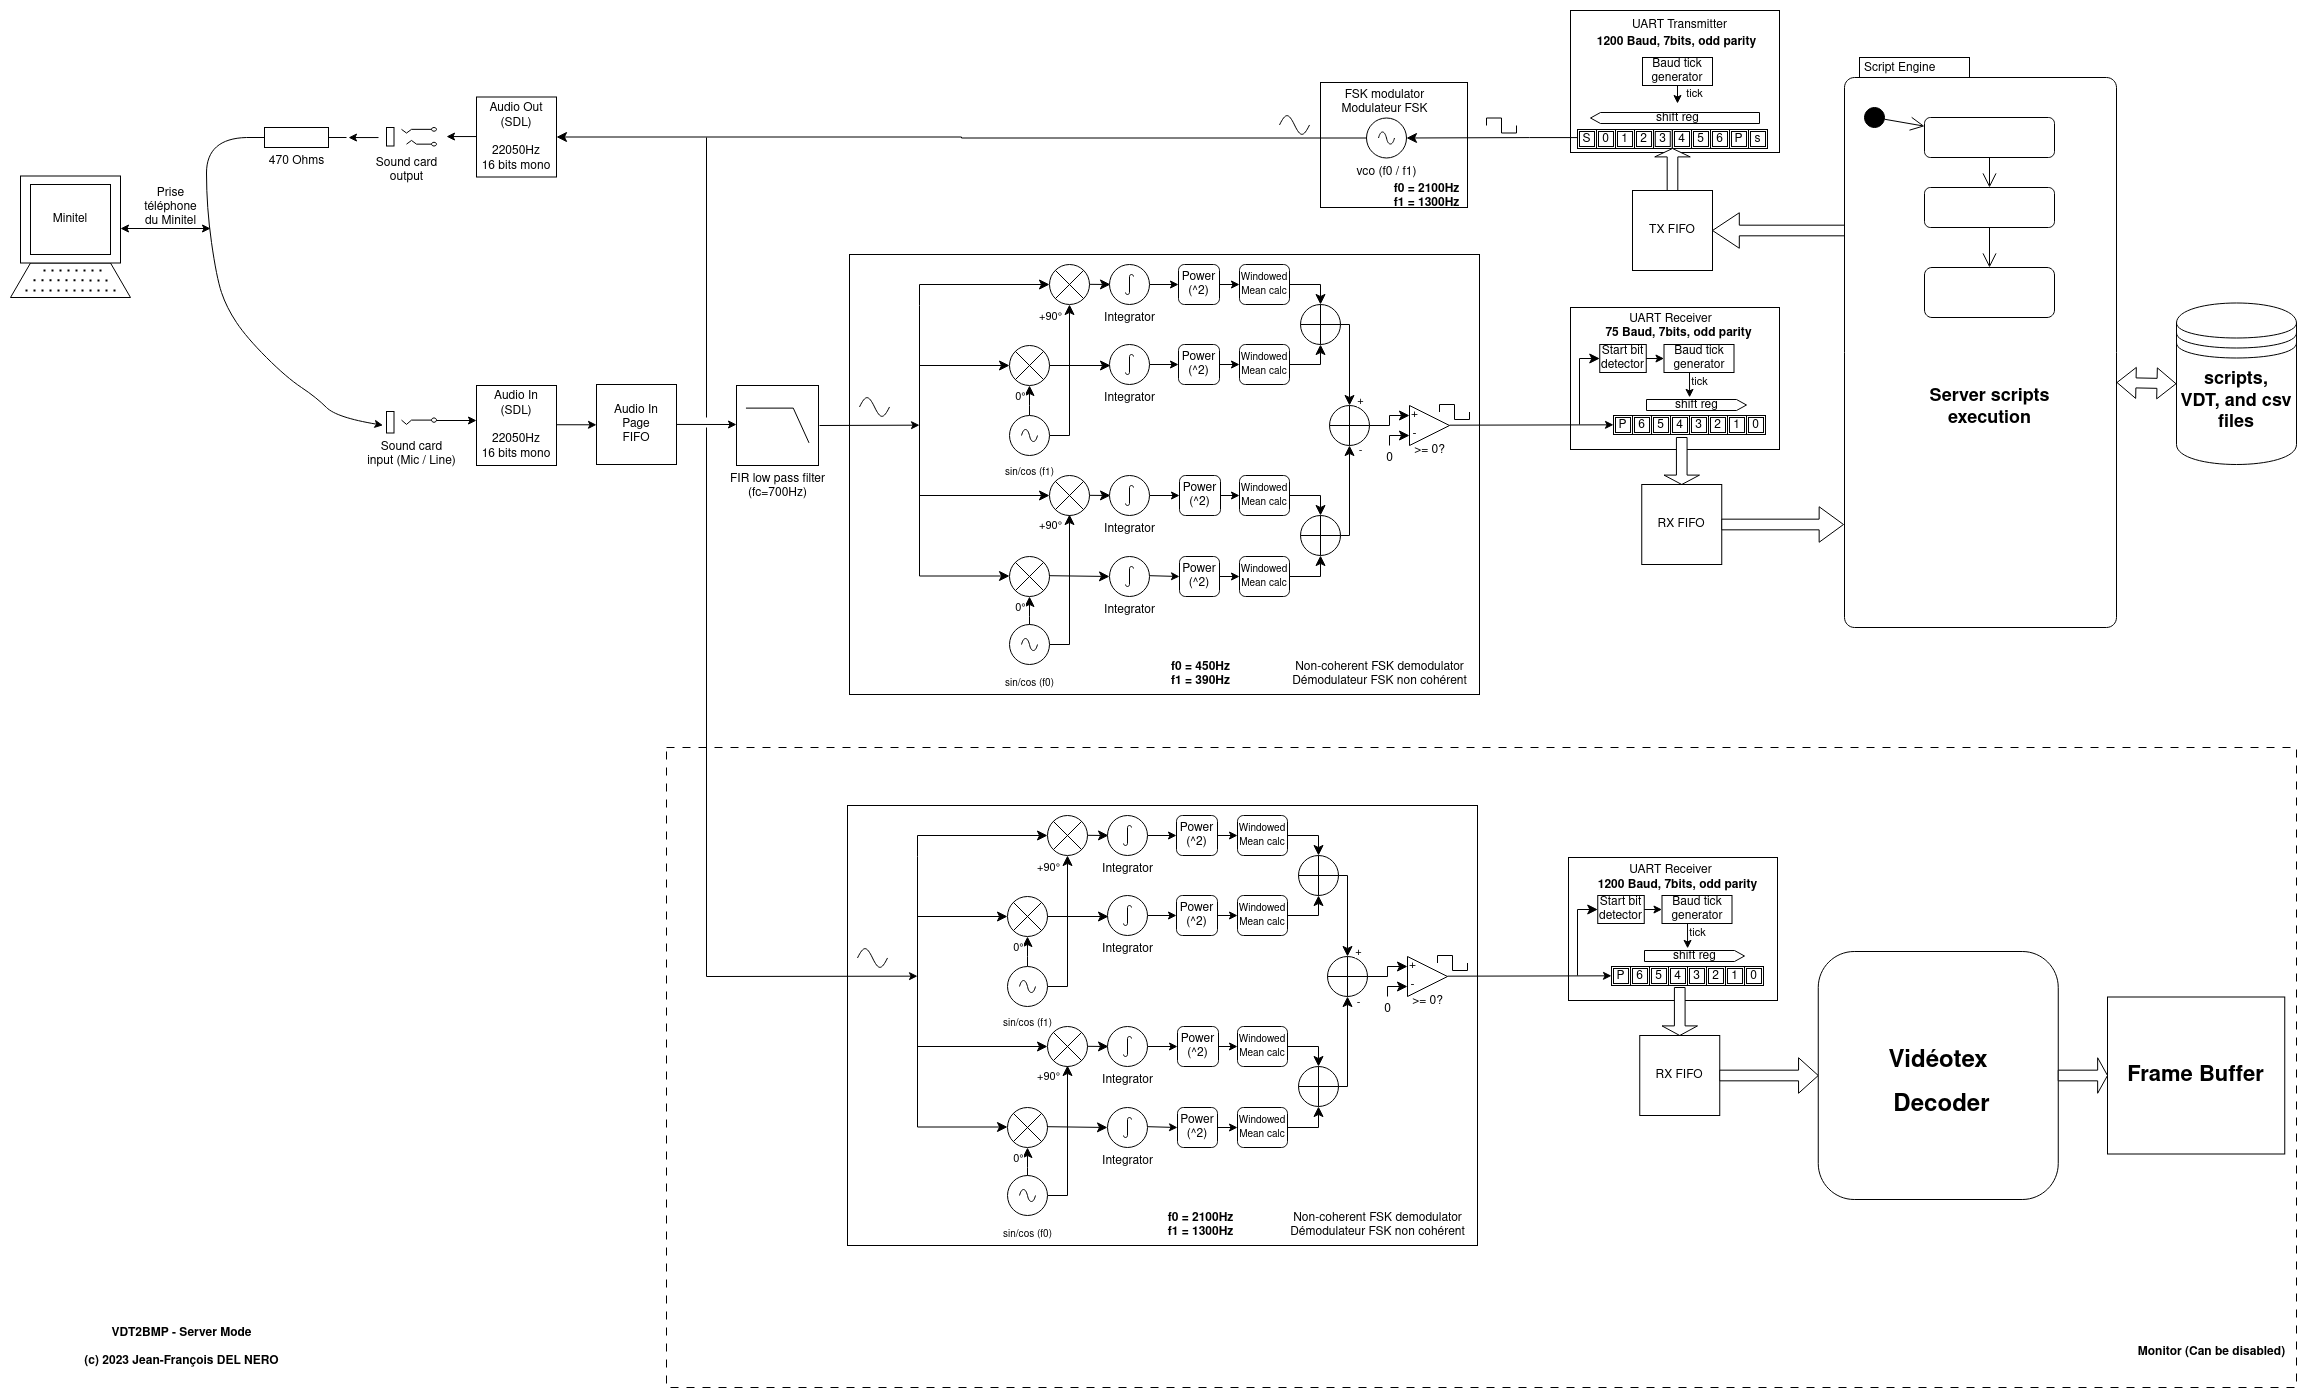
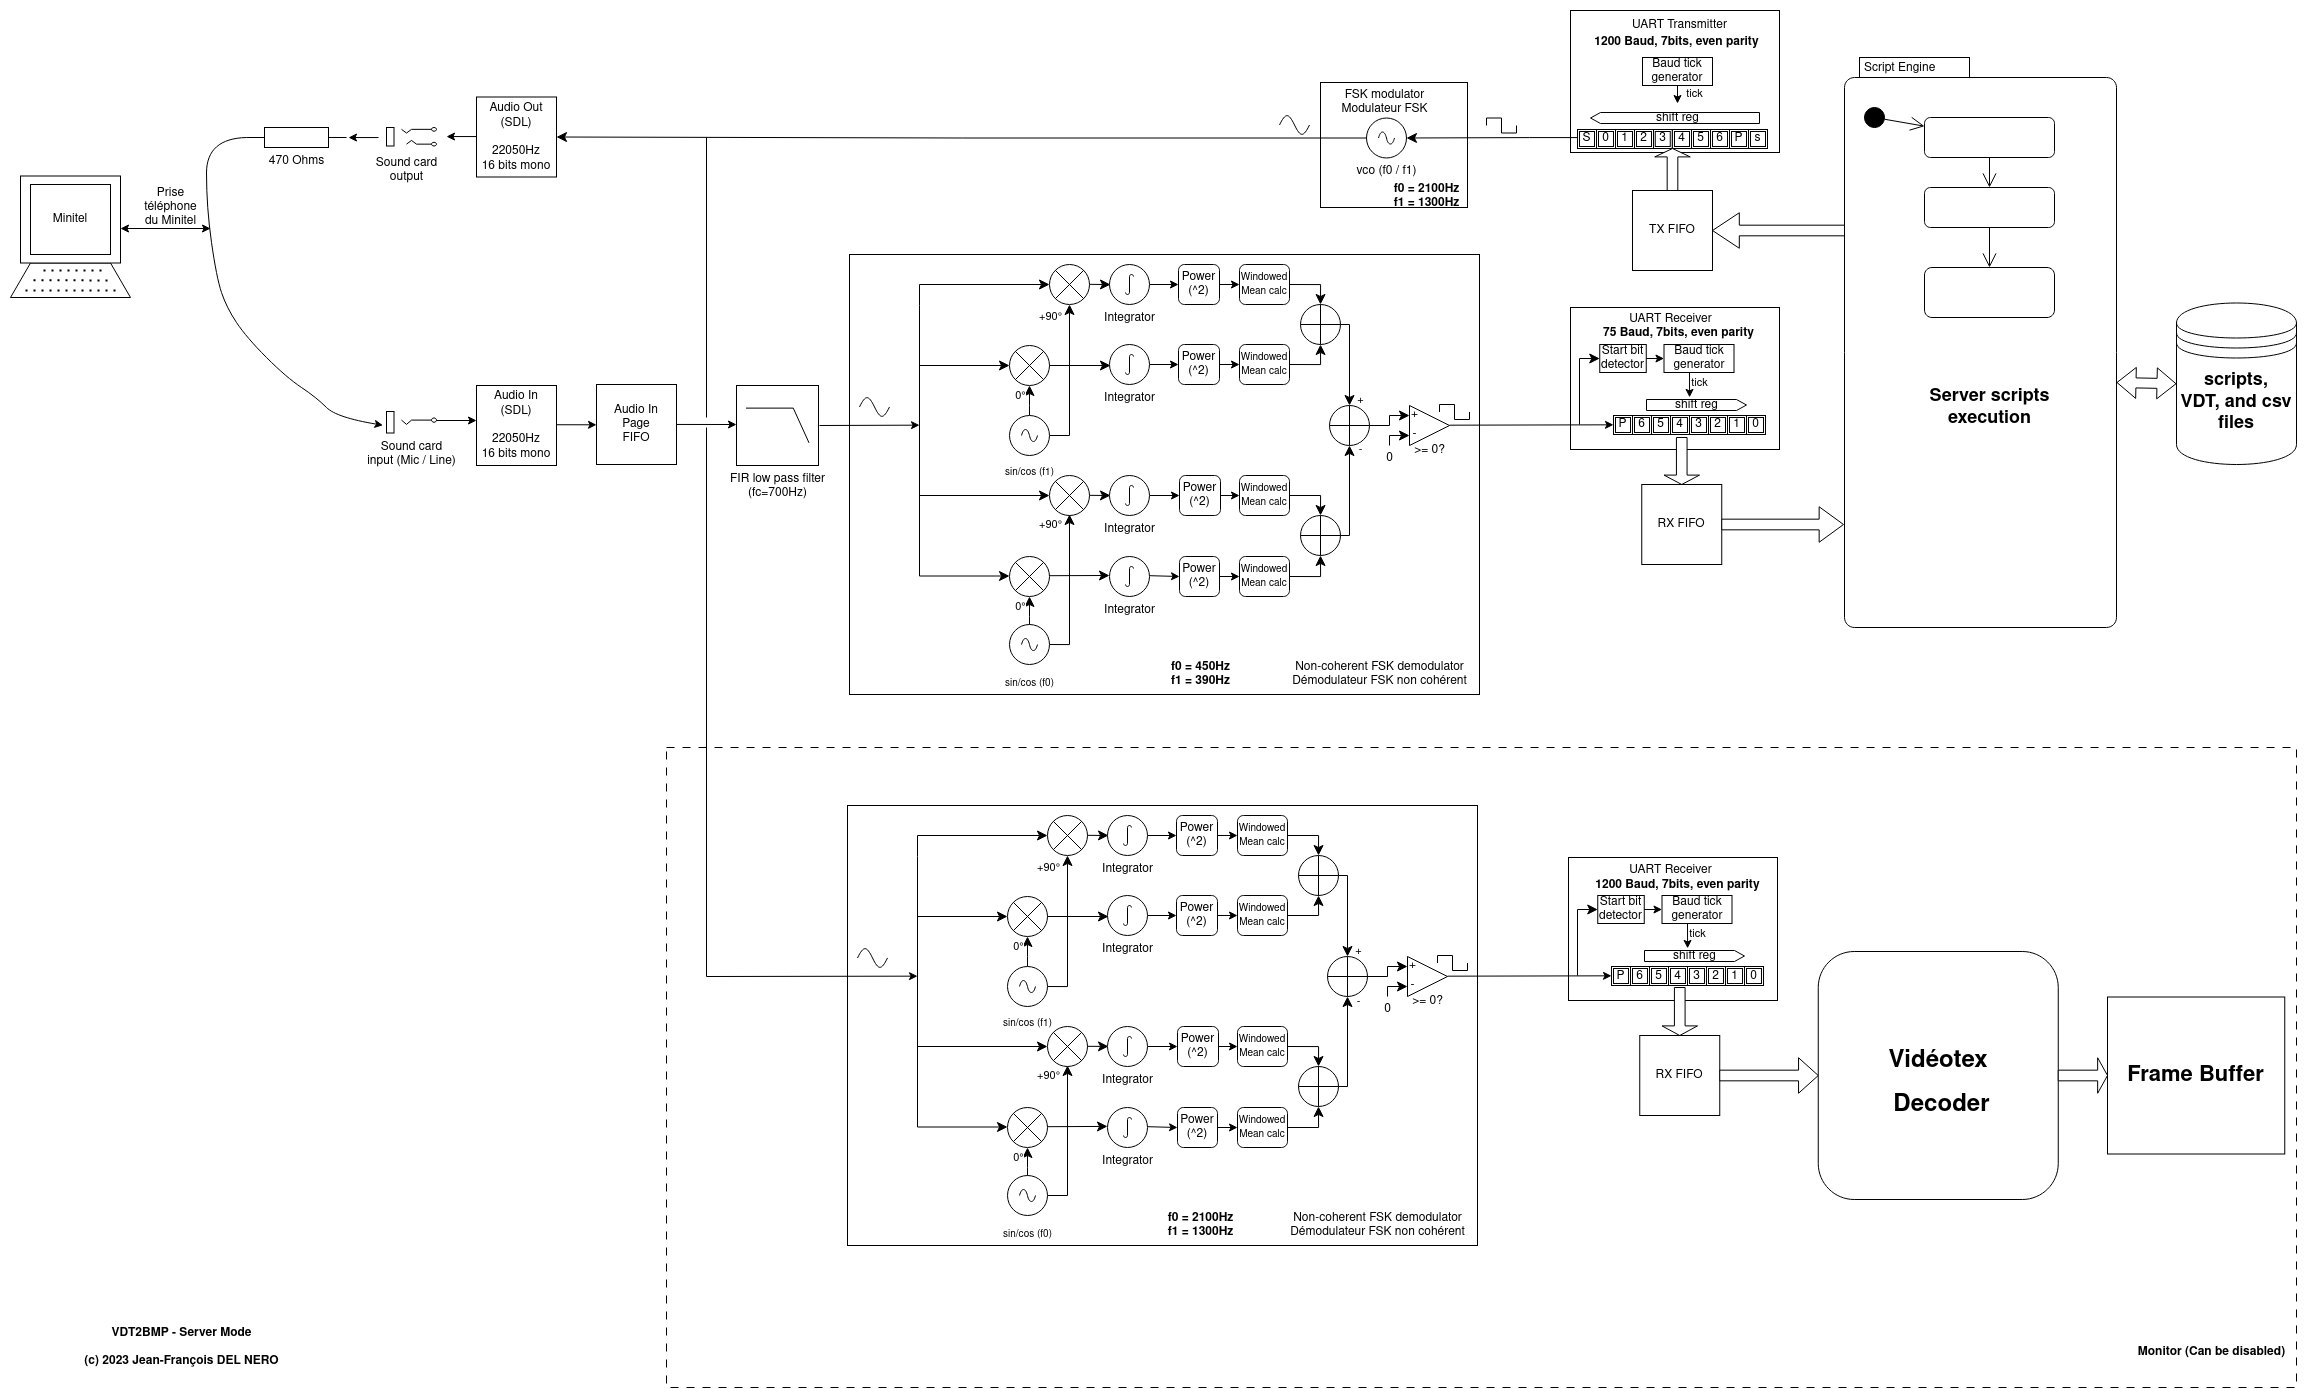
Fix the odd/even parity bit definition and description.

diff --git a/VDT2BMP/src/modem.c b/VDT2BMP/src/modem.c
@@ -179,11 +179,11 @@ int mdm_prepare_next_word(modem_ctx * mdm, int * tx_buffer,unsigned char byte)
 	{
 		switch(mdm->serial_parity)
 		{
-			case 1: // odd
+			case 1: // even parity - make sure that numbers of '1' bits is even. (data + parity bits included)
 				tx_buffer[j++] = one_bits & 1;
 			break;
 
-			case 2: // even
+			case 2: // odd parity - make sure that numbers of '1' bits is odd. (data + parity bits included)
 				tx_buffer[j++] = (one_bits & 1) ^ 1;
 			break;
 		}
@@ -310,7 +310,7 @@ int mdm_serial_rx(modem_ctx *mdm, serial_rx_ctx * rx_ctx, int state)
 		case 2: // Parity
 			switch(mdm->serial_parity)
 			{
-				case 1: // odd
+				case 1: // even parity - check that the total numbers or '1' are even (data + parity bits included.)
 					if( (rx_ctx->serial_rx_parbitcnt & 1)  != (state&1) )
 					{
 						// bad parity
@@ -320,7 +320,7 @@ int mdm_serial_rx(modem_ctx *mdm, serial_rx_ctx * rx_ctx, int state)
 					}
 				break;
 
-				case 2: // even
+				case 2: // odd parity - check that the total numbers or '1' are odd (data + parity bits included.)
 					if( (rx_ctx->serial_rx_parbitcnt & 1)  != ((state^1)&1) )
 					{
 						// bad parity
